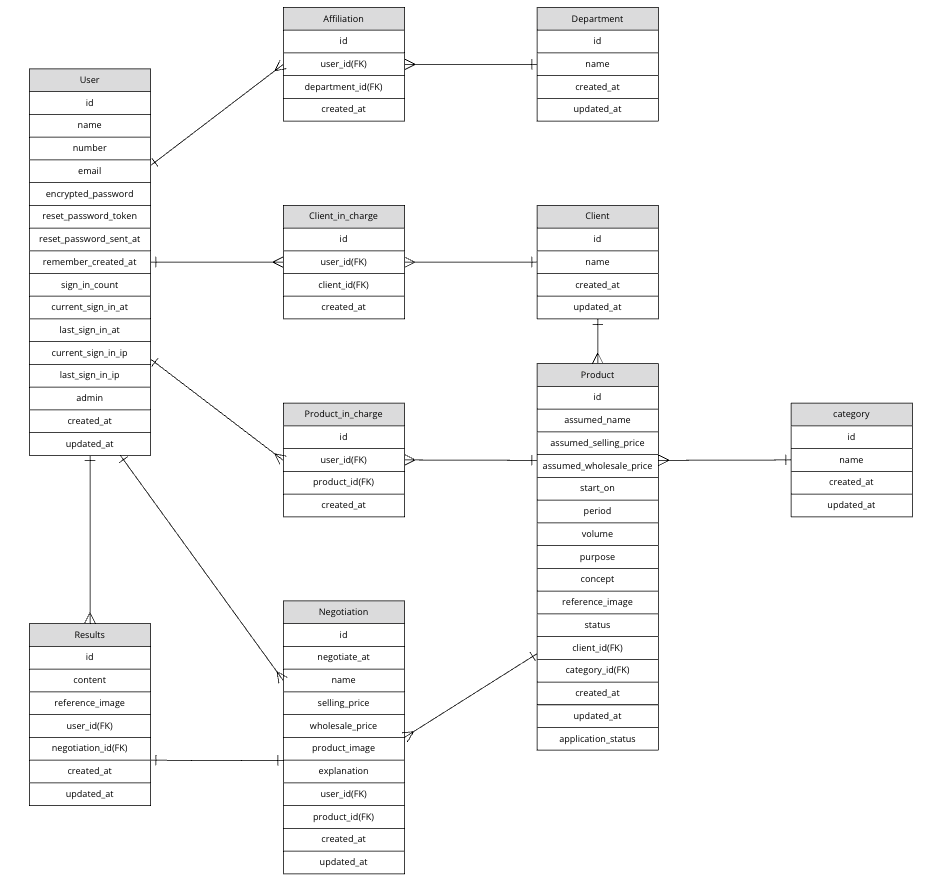
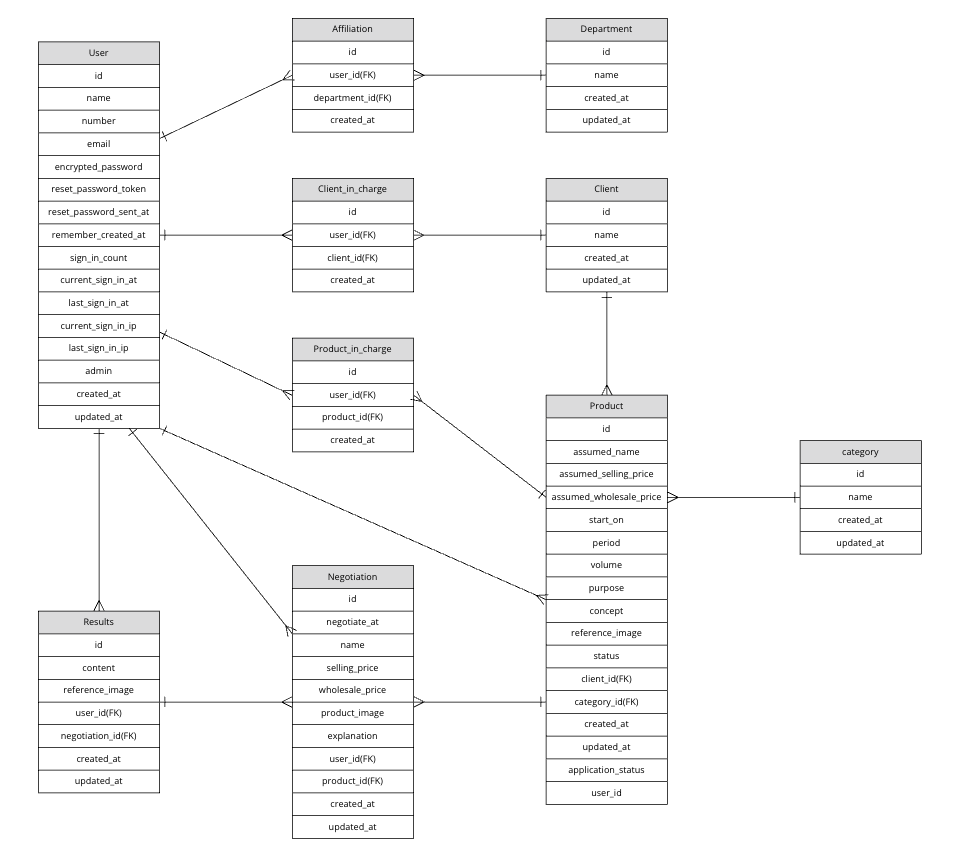
update: productsコントローラ、ビューにuser_idを表示

diff --git a/app/controllers/negotiations_controller.rb b/app/controllers/negotiations_controller.rb
@@ -57,7 +57,7 @@ class NegotiationsController < ApplicationController
   def negotiation_params
     params.require(:negotiation).permit(
       :negotiate_at, :name, :selling_price, :wholesale_price,
-      :product_image, :product_image_cache, :explanation, :user_id, :product_id
+      :product_image, :product_image_cache, :explanation
     )
   end
 end

diff --git a/app/controllers/results_controller.rb b/app/controllers/results_controller.rb
@@ -54,6 +54,6 @@ before_action :set_negotiation, only: %i[create edit update]
   end
 
   def result_params
-    params.require(:result).permit(:content, :reference_image, :reference_image_cache, :user_id, :result_id)
+    params.require(:result).permit(:content, :reference_image, :reference_image_cache)
   end
 end

diff --git a/app/controllers/products_controller.rb b/app/controllers/products_controller.rb
@@ -19,7 +19,7 @@ class ProductsController < ApplicationController
   end
   
   def create
-    @product = Product.new(product_params)
+    @product = current_user.products.build(product_params)
 
     if @product.save
       redirect_to product_url(@product), notice: t("views.products.messages.create")

diff --git a/app/models/user.rb b/app/models/user.rb
@@ -7,6 +7,7 @@ class User < ApplicationRecord
   has_many :affiliations, dependent: :destroy
   has_many :client_in_charges, dependent: :destroy
   has_many :product_in_charges, dependent: :destroy
+  has_many :products
   has_many :negotiations
   has_many :results
   

diff --git a/app/models/product.rb b/app/models/product.rb
@@ -1,4 +1,5 @@
 class Product < ApplicationRecord
+  belongs_to :user
   belongs_to :client
   belongs_to :category
 
